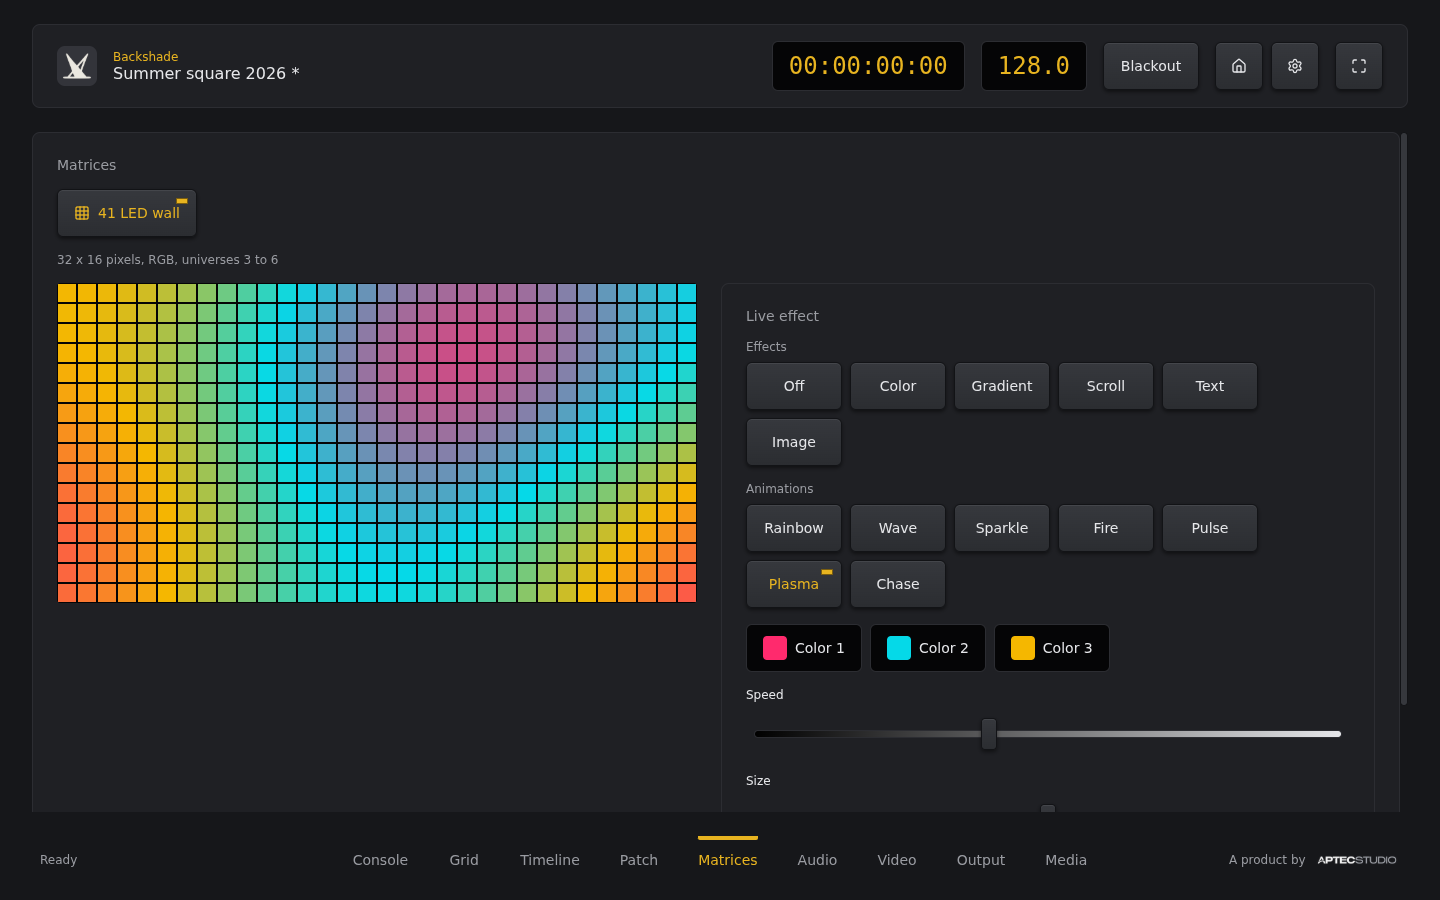
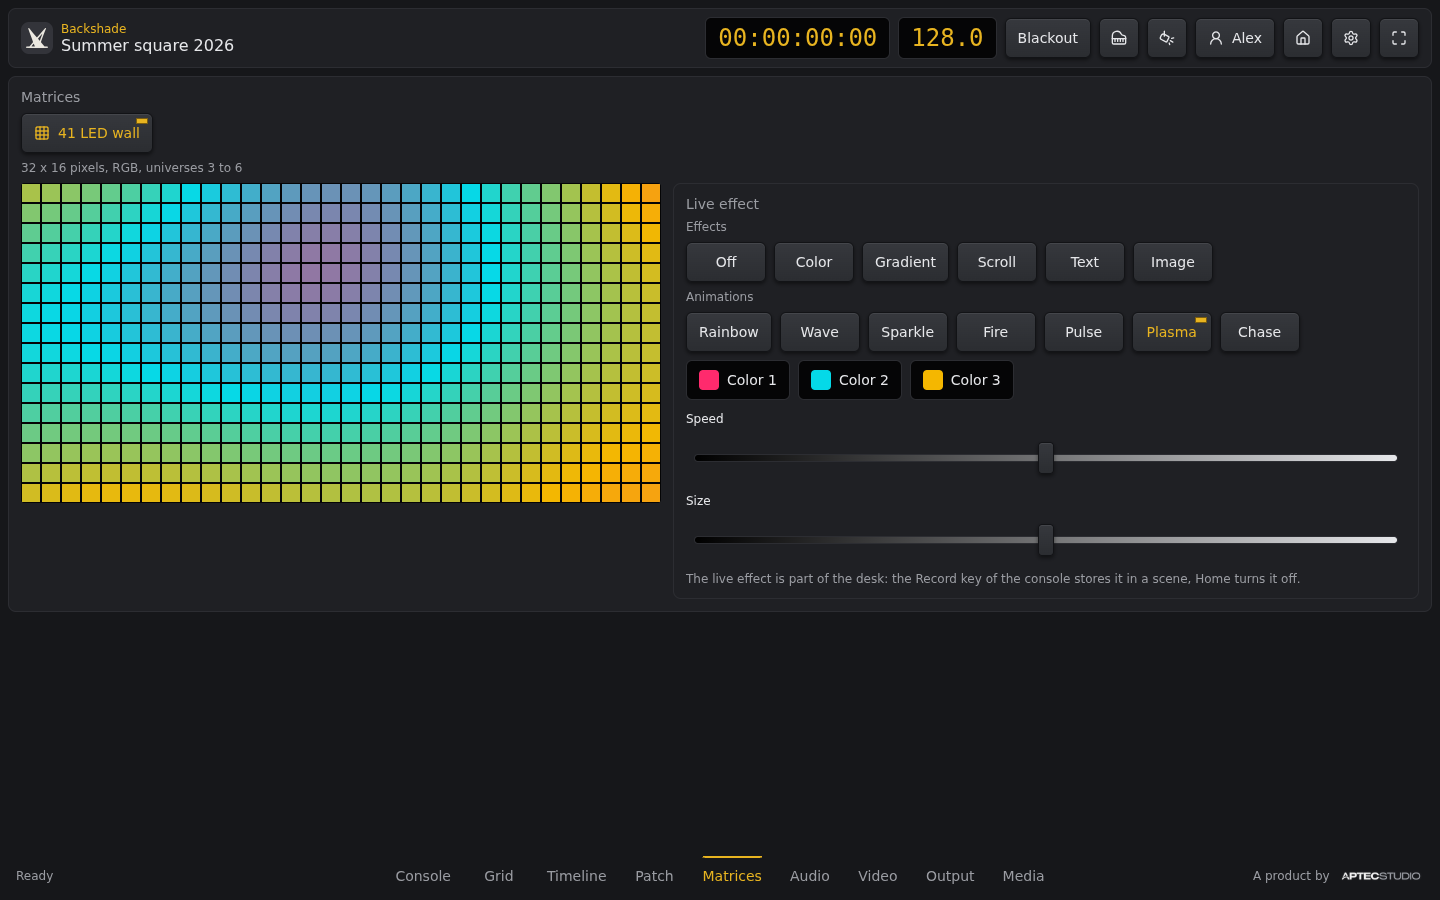
docs: record the new spacing scale and update the README screenshots

diff --git a/MEMORY.md b/MEMORY.md
@@ -107,7 +107,7 @@ Built in the first block of Phase 2 (2026-11-23).
 - **Framework additions:** `TextField`, `TextArea`, `NumberField` (accepts comma or point as decimal separator, clamps to its limits), `ChoiceKeys`, `Dialog` (modal, Esc to cancel, focus kept inside), `ListItem`, `onShortcut`, `Key.setDisabled`; the base styles make the `hidden` attribute always win over component `display` rules and set `color-scheme: dark` for native controls.
 - **Framework additions of Phase 3:** `SelectField` (native select styled as the text fields, with groups), compact `TextField` without a label (`ariaLabel`) and its `onChange` on confirmation, `Dialog` size `large` for editors, `TabBar` (flat tabs, 48 px high), `ChoiceKeys` without a label and with a `value` getter, `ListItem` `classes`, labels keep line breaks, palette color `warning` for functional indicators.
 - **Desktop-only methods:** `requireDesktop()` (`src/main/transport/require-desktop.ts`) is the single guard used by every service.
-- **Scrollbars** (`framework/scss/base/_scrollbar.scss`, requested by the human on 2026-11-23): themed like the console, 8 px (`space(1)`), transparent track, thumb in the key grey with the key border and a lighter tone on hover and drag, no arrow buttons; browsers without the webkit selectors get `scrollbar-color` with the same colors.
+- **Scrollbars** (`framework/scss/base/_scrollbar.scss`, requested by the human on 2026-11-23): themed like the console, 8 px (`space(8)`), transparent track, thumb in the key grey with the key border and a lighter tone on hover and drag, no arrow buttons; browsers without the webkit selectors get `scrollbar-color` with the same colors.
 - **Value input controls** (requested by the human on 2026-11-23), to be used everywhere:
   - **durations:** always a `TimeField`, a key showing the time ("2.5 s", "1:15.0") that opens the time picker: large readout, `JogWheel` turned by dragging around its center (one turn is 10 s, 1 s in fine mode), mouse wheel and arrow keys, step keys (-1, -0.1, +0.1, +1 s), zero key and direct entry of the seconds;
   - **RGB colors:** always a `ColorWheel`: hue around the wheel (red at the top, clockwise), saturation from the center, brightness on a `LinearSlider`, plus R, G, B (0 to 255) and hex fields;
@@ -199,7 +199,7 @@ Built on 2026-11-28.
 - **Instance name:** `instanceName` in the global settings (default the computer name, at most 40 characters), shown and renamed in a "This computer" panel of the start page, with or without a show. (Confirmed per computer; Proposed default and panel)
 - **Discovery** (`src/main/network/discovery.ts`): UDP port 4746 (native `dgram`); a search sends `BACKSHADE-DISCOVER 1` to the broadcast addresses and collects for 1.5 s the answers (name and web port) of the other instances; nothing else is told. (Proposed port and protocol)
 - **Remote control** on the start page (not inside a remote client): a dialog lists the instances found, searches again, or takes an IP address typed by hand (port 4747 by default) when broadcast is blocked. (Confirmed list; Proposed manual address)
-- **View** (`src/main/window/remote-view.ts`): the interface of the other instance in a `WebContentsView` of the main window below a 64 px bar with name, address and Close; sandboxed, no preload (no access to this computer), all permissions refused, its own partition, it can only navigate within that instance and opens nothing; leaving forgets its session cookie, so the PIN is asked again. Closing the application closes it first. (Proposed)
+- **View** (`src/main/window/remote-view.ts`): the interface of the other instance in a `WebContentsView` of the main window below a 48 px bar with name, address and Close; sandboxed, no preload (no access to this computer), all permissions refused, its own partition, it can only navigate within that instance and opens nothing; leaving forgets its session cookie, so the PIN is asked again. Closing the application closes it first. (Proposed)
 
 ### Files sent from remote devices (10.8)
 
@@ -339,7 +339,7 @@ Implementation of 4.1 (2026-11-24):
 - **Full on:** applied by the output engine on every universe: intensity channels of the patched fixtures and every channel without a fixture at full; colors and movements of fixtures with a dimmer stay as they are; blackout still wins.
 - **Home:** every fader of every universe back to 0.
 - The state of the desk lives in the engine for the running session (like the physical faders of a desk) and is not saved in the show; every window follows `console.stateChanged`, `console.faderChanged` and `console.levelsChanged`. Universes controlled by a source are sent with Art-Net even when nothing is patched on them.
-- **Interface** (`src/renderer/sections/console/`): Console section with the preset surface (bank keys, universe, mode, two rows of strips with channel number, fixture and channel name from the patch, display with the value, compact fader, flash; no typed field under these faders) and the masters panel (A, B with reversed scale, scenes, grand master, full on, blind, home). Framework additions: `Fader` size `compact` (144 px), `SquareKey.onHold` for momentary keys.
+- **Interface** (`src/renderer/sections/console/`): Console section with the preset surface (bank keys, universe, mode, two rows of strips with channel number, fixture and channel name from the patch, display with the value, compact fader, flash; no typed field under these faders) and the masters panel (A, B with reversed scale, scenes, grand master, full on, blind, home). Framework additions: `Fader` size `compact` (128 px, 144 px until 2026-11-28), `SquareKey.onHold` for momentary keys.
 
 Status: Confirmed (2026-11-24).
 
@@ -718,9 +718,13 @@ Status: Confirmed (2026-11-23).
 
 ### Spacing
 
-Single scale, multiples of 8 only: `8, 16, 24, 32, 48, 64` px. No other values are used.
+Single scale of multiples of 4: `4, 8, 12, 16, 20, 24, 32, 40, 48, 64` px, plus `2` only exceptionally, for rare fine adjustments. No other values are used. It replaces the first scale of multiples of 8 (changed by the human on 2026-11-28).
 
-Status: Confirmed (proposed scale).
+- The steps are named by their size in pixels, both in SCSS (`space(8)`) and in TypeScript (`SpacingStep`, `gap: 8`).
+- **Use** (compact layout of 2026-11-28): 8 px around and between the regions of the window and between rows of keys; 12 px inside panels and between the groups of a section; 16 px inside dialogs; 4 px between a label and its control, between the rows of a list and inside the small widgets.
+- **Sizes** (with a mouse): keys 40 px high (large 48 px, at least 80 px wide), tabs of the sections 40 px, fields 40 px, list rows at least 40 px, compact faders 128 px. Keys and tabs keep a hit area of 48 px with an invisible border.
+
+Status: Confirmed (scale and compact layout), Proposed (use and sizes).
 
 ### Colors
 
@@ -742,7 +746,7 @@ Status: Proposed.
 - Never emoji or emoticons.
 - Sources: one SVG file per icon in `app/assets/icons/lucide/`, copied unchanged from `lucide-static` 1.78.0, with the Lucide `LICENSE`. Only the icons used by the interface are kept (decided by the human on 2026-11-23).
 - Build: `scripts/build-icons.mts` generates the sprite `dist/web/assets/icons.svg` (one `<symbol>` per icon, served at `/assets/icons.svg`) and the type `IconName` in `src/framework/ts/icons/icon-names.ts`, so a wrong icon name is a compile error.
-- Rendering: `icon(name)` creates an `<svg class="icon">` that references the sprite; stroke and color come from `.icon` in the SCSS framework (stroke width 2, `currentColor`), sizes `space(2)` and `space(3)` (`.icon--large`).
+- Rendering: `icon(name)` creates an `<svg class="icon">` that references the sprite; stroke and color come from `.icon` in the SCSS framework (stroke width 2, `currentColor`), sizes `space(16)` and `space(24)` (`.icon--large`).
 
 Status: Confirmed.
 
@@ -864,7 +868,7 @@ Built on 2026-11-27.
 - **Hit areas:** square keys and knobs have an invisible area of at least 48 px around them (`::before` of the square key, `knob__hit`), with the look unchanged; automation points have an invisible circle of 16 px radius. (Proposed)
 - **Long press** (framework `onLongPress`, 500 ms, 8 px of tolerance): the touch replacement of the double click and of the right click. In the timeline it opens a clip, adds a clip on an empty lane, opens a marker, adds a marker on the ruler and removes an automation point. The system menu of a long press is never shown on these controls. (Proposed)
 - **Pinch in the timeline:** two fingers zoom the time around the point between them; while they move the lanes are only stretched with a transform (rebuilding them would lose the touch, whose target must stay in the page), the zoom is applied when they lift. One and two fingers scroll the editor natively; the page itself never zooms (`touch-action: pan-x pan-y`). (Proposed)
-- **Touch mode** (`src/renderer/preferences/touch-mode.ts`, Application settings): automatic (on when the main pointer is a finger, `pointer: coarse`), always or never, saved per device (`backshade.touchMode`) and applied to every window at once with the class `touch-mode` of the document (framework `base/_touch.scss`): keys 64 px high (large keys 80 px), square keys 40 px, fields 48 px, list rows 64 px, clip edges and fade handles of the timeline 16 px. (Proposed sizes)
+- **Touch mode** (`src/renderer/preferences/touch-mode.ts`, Application settings): automatic (on when the main pointer is a finger, `pointer: coarse`), always or never, saved per device (`backshade.touchMode`) and applied to every window at once with the class `touch-mode` of the document (framework `base/_touch.scss`): keys and section tabs 48 px high (large keys 64 px), square keys 40 px, fields 48 px, list rows 48 px, clip edges and fade handles of the timeline 16 px. (Proposed sizes)
 - **Tests:** touch is tested with the touch emulation of Chromium; the automatic touch mode turns on under emulation and moves the layout, so coordinates must be read with the emulation on.
 
 ### MIDI layer: input (16.2a)

diff --git a/AGENTS.md b/AGENTS.md
@@ -94,7 +94,7 @@ Features to support:
 ## 9. Design guidelines
 
 - **Visual model:** hardware skeuomorphism (the interface recalls the surfaces, faders, buttons and displays of a physical console). See `MEMORY.md` for the reference adopted.
-- **Spacing:** multiples of 8 only, always the same values from the scale defined in `MEMORY.md`.
+- **Spacing:** multiples of 4, always the same values from the scale defined in `MEMORY.md`; 2 is allowed only exceptionally, in a very small share of cases.
 - **Theme and colors:** dark theme only, neutral palette; panels and cards are flat; gradients and shadows are allowed only on realistic controls (faders, knobs, keys, displays); **no glow**.
 - **Icons:** never emoji or emoticons. Line icons only, all from the same library (see `MEMORY.md`).
 - **Typography:** at most two weights per font; **do not use UPPERCASE text**.

diff --git a/TESTING.md b/TESTING.md
@@ -196,6 +196,8 @@ How to use it:
 - [ ] Long press in the timeline: opens a clip, adds a clip, opens or adds a marker, removes an automation point; the system menu never appears.
 - [ ] Pinch zoom in the timeline follows the fingers and lands on the right point; scrolling with one or two fingers works; the page never zooms.
 - [ ] Small square keys and knobs can be hit with a finger also slightly outside their drawing.
+- [ ] Compact layout: without the touch mode, keys and section tabs (40 px with a 48 px hit area) are still comfortable on a real screen; neighbouring keys are never hit by mistake.
+- [ ] Compact layout on the real screens used live (laptop, small and large monitor): texts are readable, nothing overlaps, the compact faders are long enough.
 
 ## 17. File manager
 
